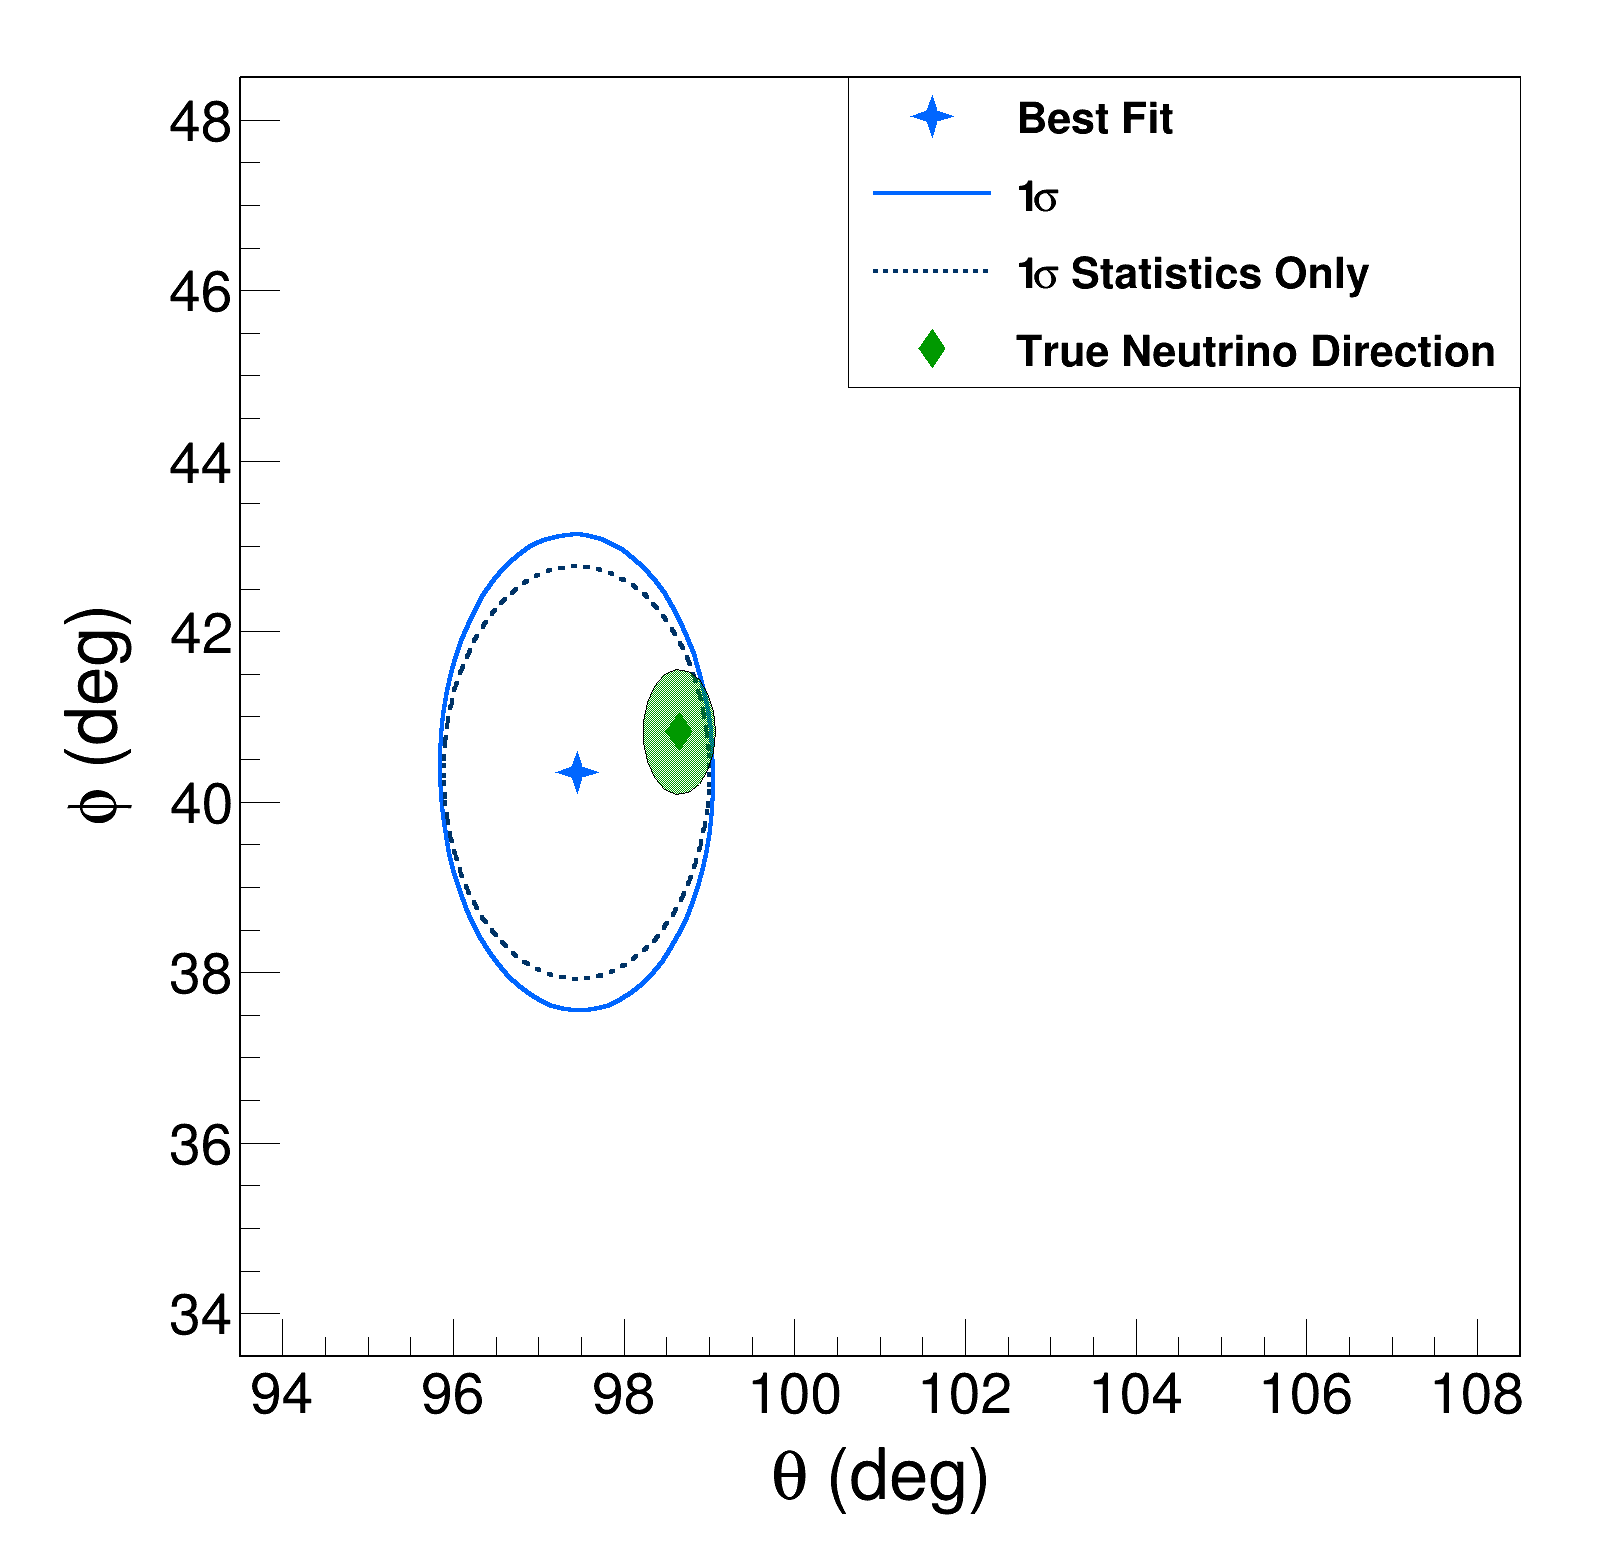
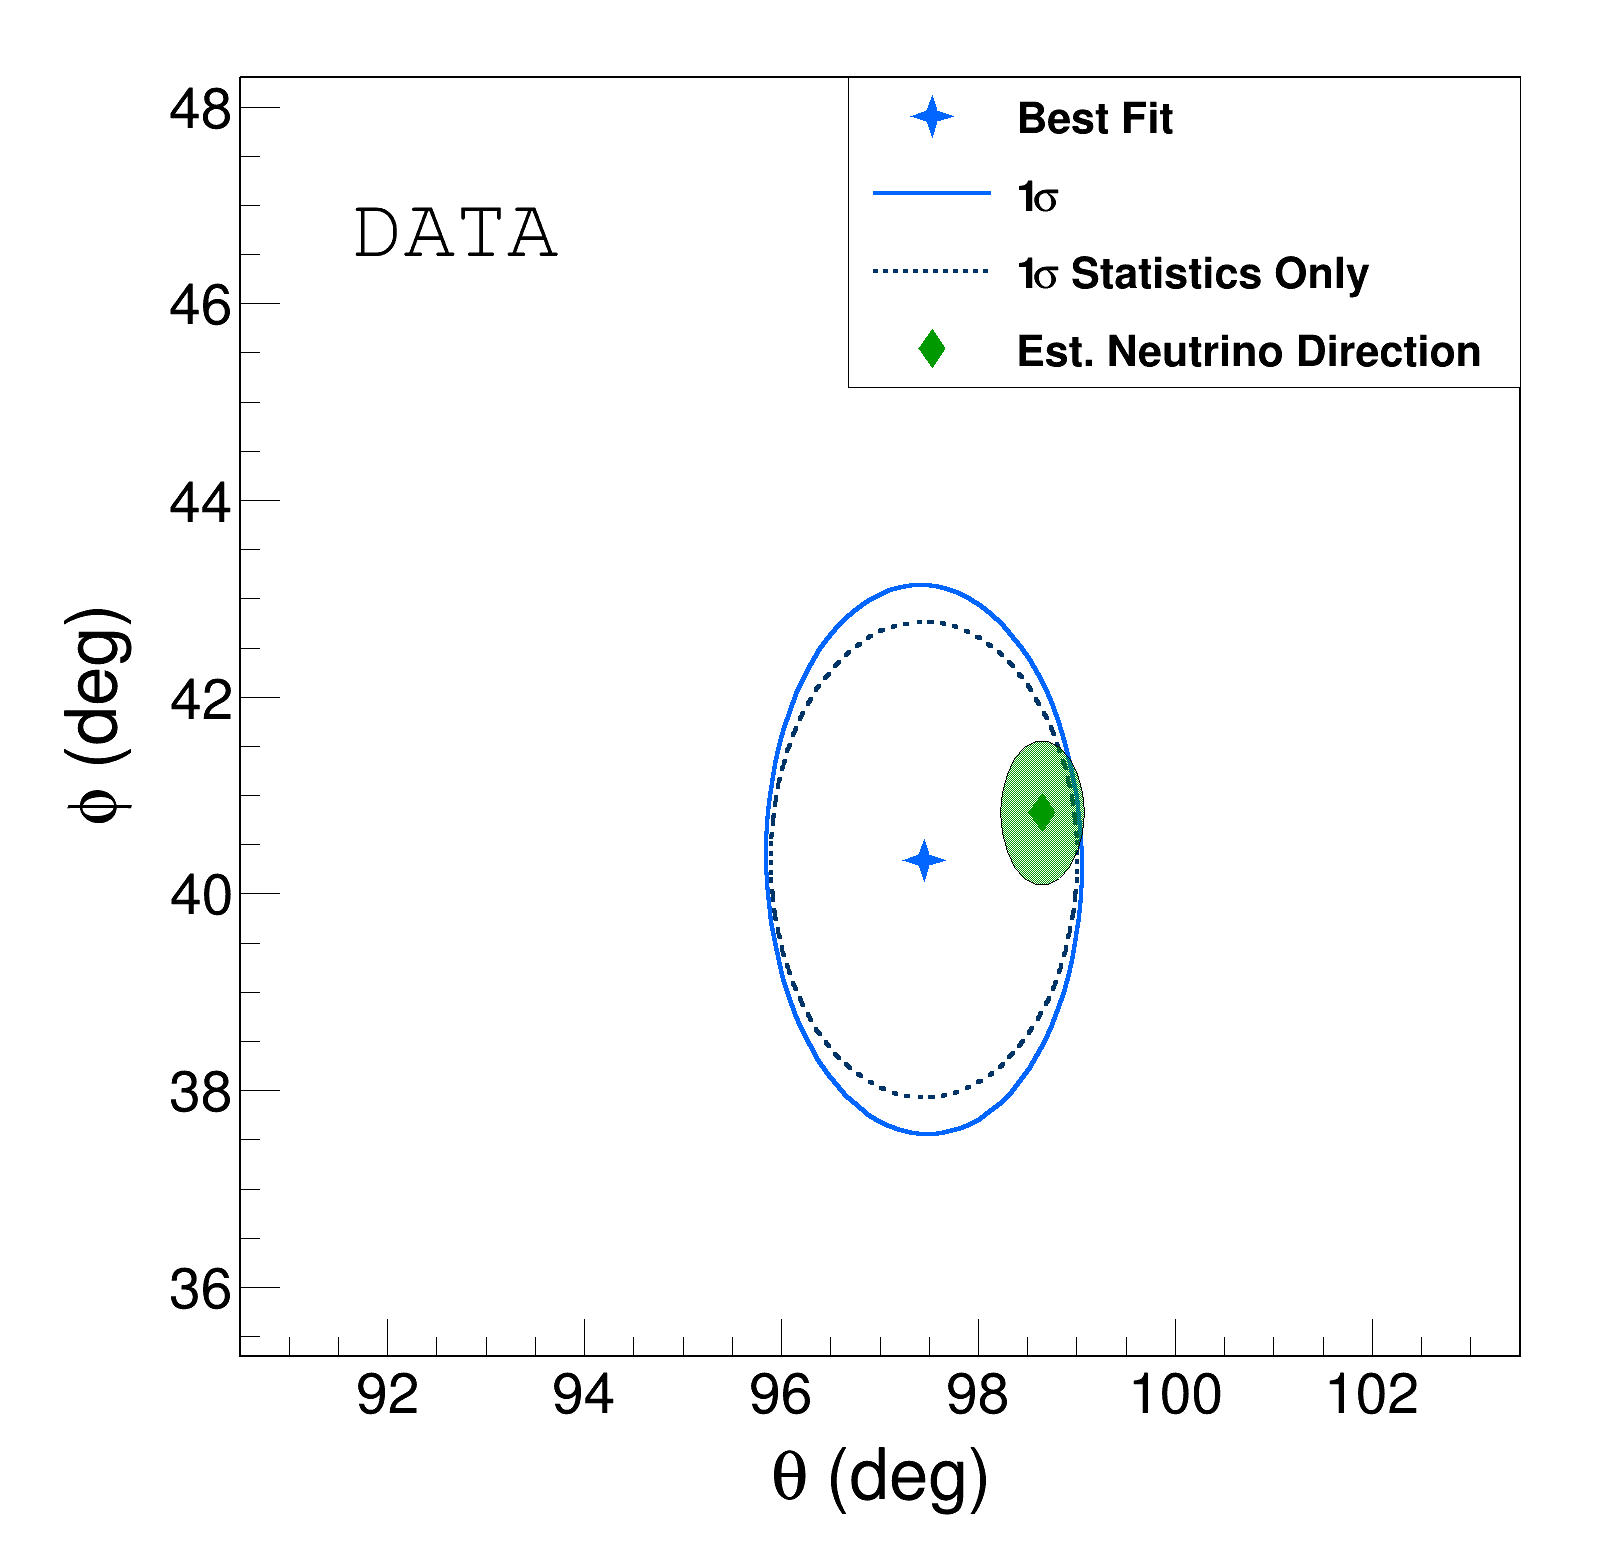
Added text and centered final plots.

diff --git a/NeutrinoDirectionalityPlots.cc b/NeutrinoDirectionalityPlots.cc
@@ -160,7 +160,7 @@ void MakeSimulationPlot(FinalValues const& finalValues)
     canvas.SetBottomMargin(0.125);
 
     // Need to draw a frame to set bounds
-    auto frame = canvas.DrawFrame(93.5, 33.5, 108.5, 48.5);
+    auto frame = canvas.DrawFrame(93, 36.3, 105, 49.3);
 
     // Setting up axis labels
     frame->GetXaxis()->SetTitle("#theta (deg)");
@@ -197,7 +197,7 @@ void MakeSimulationPlot(FinalValues const& finalValues)
     SimulationUncorrected.SetFillStyle(3001);
     SimulationUncorrected.Draw();
 
-    TEllipse PerfectSimulation(finalValues.theta[PerfSimUnbiased],
+    /* TEllipse PerfectSimulation(finalValues.theta[PerfSimUnbiased],
                                finalValues.phi[PerfSimUnbiased],
                                finalValues.thetaError[PerfSimUnbiased],
                                finalValues.phiError[PerfSimUnbiased],
@@ -217,7 +217,7 @@ void MakeSimulationPlot(FinalValues const& finalValues)
                                           finalValues.tilt[PerfSim]);
     PerfectSimulationUncorrected.SetFillColor(kPink + 2);
     PerfectSimulationUncorrected.SetFillStyle(3001);
-    PerfectSimulationUncorrected.Draw();
+    PerfectSimulationUncorrected.Draw(); */
 
     TEllipse DataStatistics(finalValues.theta[SimUnbiased],
                             finalValues.phi[SimUnbiased],
@@ -248,7 +248,7 @@ void MakeSimulationPlot(FinalValues const& finalValues)
     simUncorrectedPoint.SetMarkerColor(kMagenta + 3.25);
     simUncorrectedPoint.Draw();
 
-    TMarker perfSimPoint(finalValues.theta[PerfSimUnbiased], finalValues.phi[PerfSimUnbiased], 29);
+    /* TMarker perfSimPoint(finalValues.theta[PerfSimUnbiased], finalValues.phi[PerfSimUnbiased], 29);
     perfSimPoint.SetMarkerSize(4.5);
     perfSimPoint.SetMarkerColor(kAzure + 7.25);
     perfSimPoint.Draw();
@@ -256,7 +256,7 @@ void MakeSimulationPlot(FinalValues const& finalValues)
     TMarker perfSimUncorrectedPoint(finalValues.theta[PerfSim], finalValues.phi[PerfSim], 43);
     perfSimUncorrectedPoint.SetMarkerSize(4.5);
     perfSimUncorrectedPoint.SetMarkerColor(kPink + 2.25);
-    perfSimUncorrectedPoint.Draw();
+    perfSimUncorrectedPoint.Draw(); */
 
     TMarker truePoint(finalValues.thetaTrue, finalValues.phiTrue, 33);
     truePoint.SetMarkerSize(5);
@@ -274,11 +274,21 @@ void MakeSimulationPlot(FinalValues const& finalValues)
     legend.SetTextSize(0.03);
     legend.AddEntry(&simPoint, "Simulation", "p");
     legend.AddEntry(&simUncorrectedPoint, "Biased Sim", "p");
-    legend.AddEntry(&perfSimPoint, "Perf Sim", "p");
-    legend.AddEntry(&perfSimUncorrectedPoint, "Biased Perf Sim", "p");
+    /* legend.AddEntry(&perfSimPoint, "Perf Sim", "p");
+    legend.AddEntry(&perfSimUncorrectedPoint, "Biased Perf Sim", "p"); */
     legend.AddEntry(&statsLine, "Data 1#sigma Statistics", "l");
     legend.AddEntry(&truePoint, "True Neutrino Direction", "p");
     legend.Draw();
+
+    TText simText(0.18, 0.85, "SIMULATION");
+    simText.SetNDC();
+    simText.SetTextAlign(12);
+    simText.SetTextFont(82);
+    simText.SetTextColor(kBlack);
+    simText.SetTextSize(0.06);
+    simText.Draw();
+
+    canvas.Update();
 
     string fullPath = plotDirectory + "/SimulationPlot.png";
     canvas.SaveAs(fullPath.c_str());
@@ -294,7 +304,7 @@ void MakeFinalPlot(FinalValues const& finalValues)
     canvas.SetBottomMargin(0.125);
 
     // Need to draw a frame to set bounds
-    auto frame = canvas.DrawFrame(93.5, 33.5, 108.5, 48.5);
+    auto frame = canvas.DrawFrame(90.5, 35.3, 103.5, 48.3);
 
     // Setting up axis labels
     frame->GetXaxis()->SetTitle("#theta (deg)");
@@ -389,8 +399,16 @@ void MakeFinalPlot(FinalValues const& finalValues)
     legend.AddEntry(&dataLine, "1#sigma", "l");
     legend.AddEntry(&statsLine, "1#sigma Statistics Only", "l");
     // legend.AddEntry(&simPoint, "Simulation", "p");
-    legend.AddEntry(&truePoint, "True Neutrino Direction", "p");
+    legend.AddEntry(&truePoint, "Est. Neutrino Direction", "p");
     legend.Draw();
+
+    TText dataText(0.22, 0.85, "DATA");
+    dataText.SetNDC();
+    dataText.SetTextAlign(12);
+    dataText.SetTextFont(82);
+    dataText.SetTextColor(kBlack);
+    dataText.SetTextSize(0.06);
+    dataText.Draw();
 
     string fullPath = plotDirectory + "/FinalPlot.png";
     canvas.SaveAs(fullPath.c_str());

diff --git a/Plotter.h b/Plotter.h
@@ -1,9 +1,11 @@
 #include "TCanvas.h"
 #include "TH1.h"
+#include "TLatex.h"
 #include "TLegend.h"
 #include "TLegendEntry.h"
 #include "TROOT.h"
 #include "TStyle.h"
+#include "TText.h"
 
 void SetBasicPlotStyle()
 {
